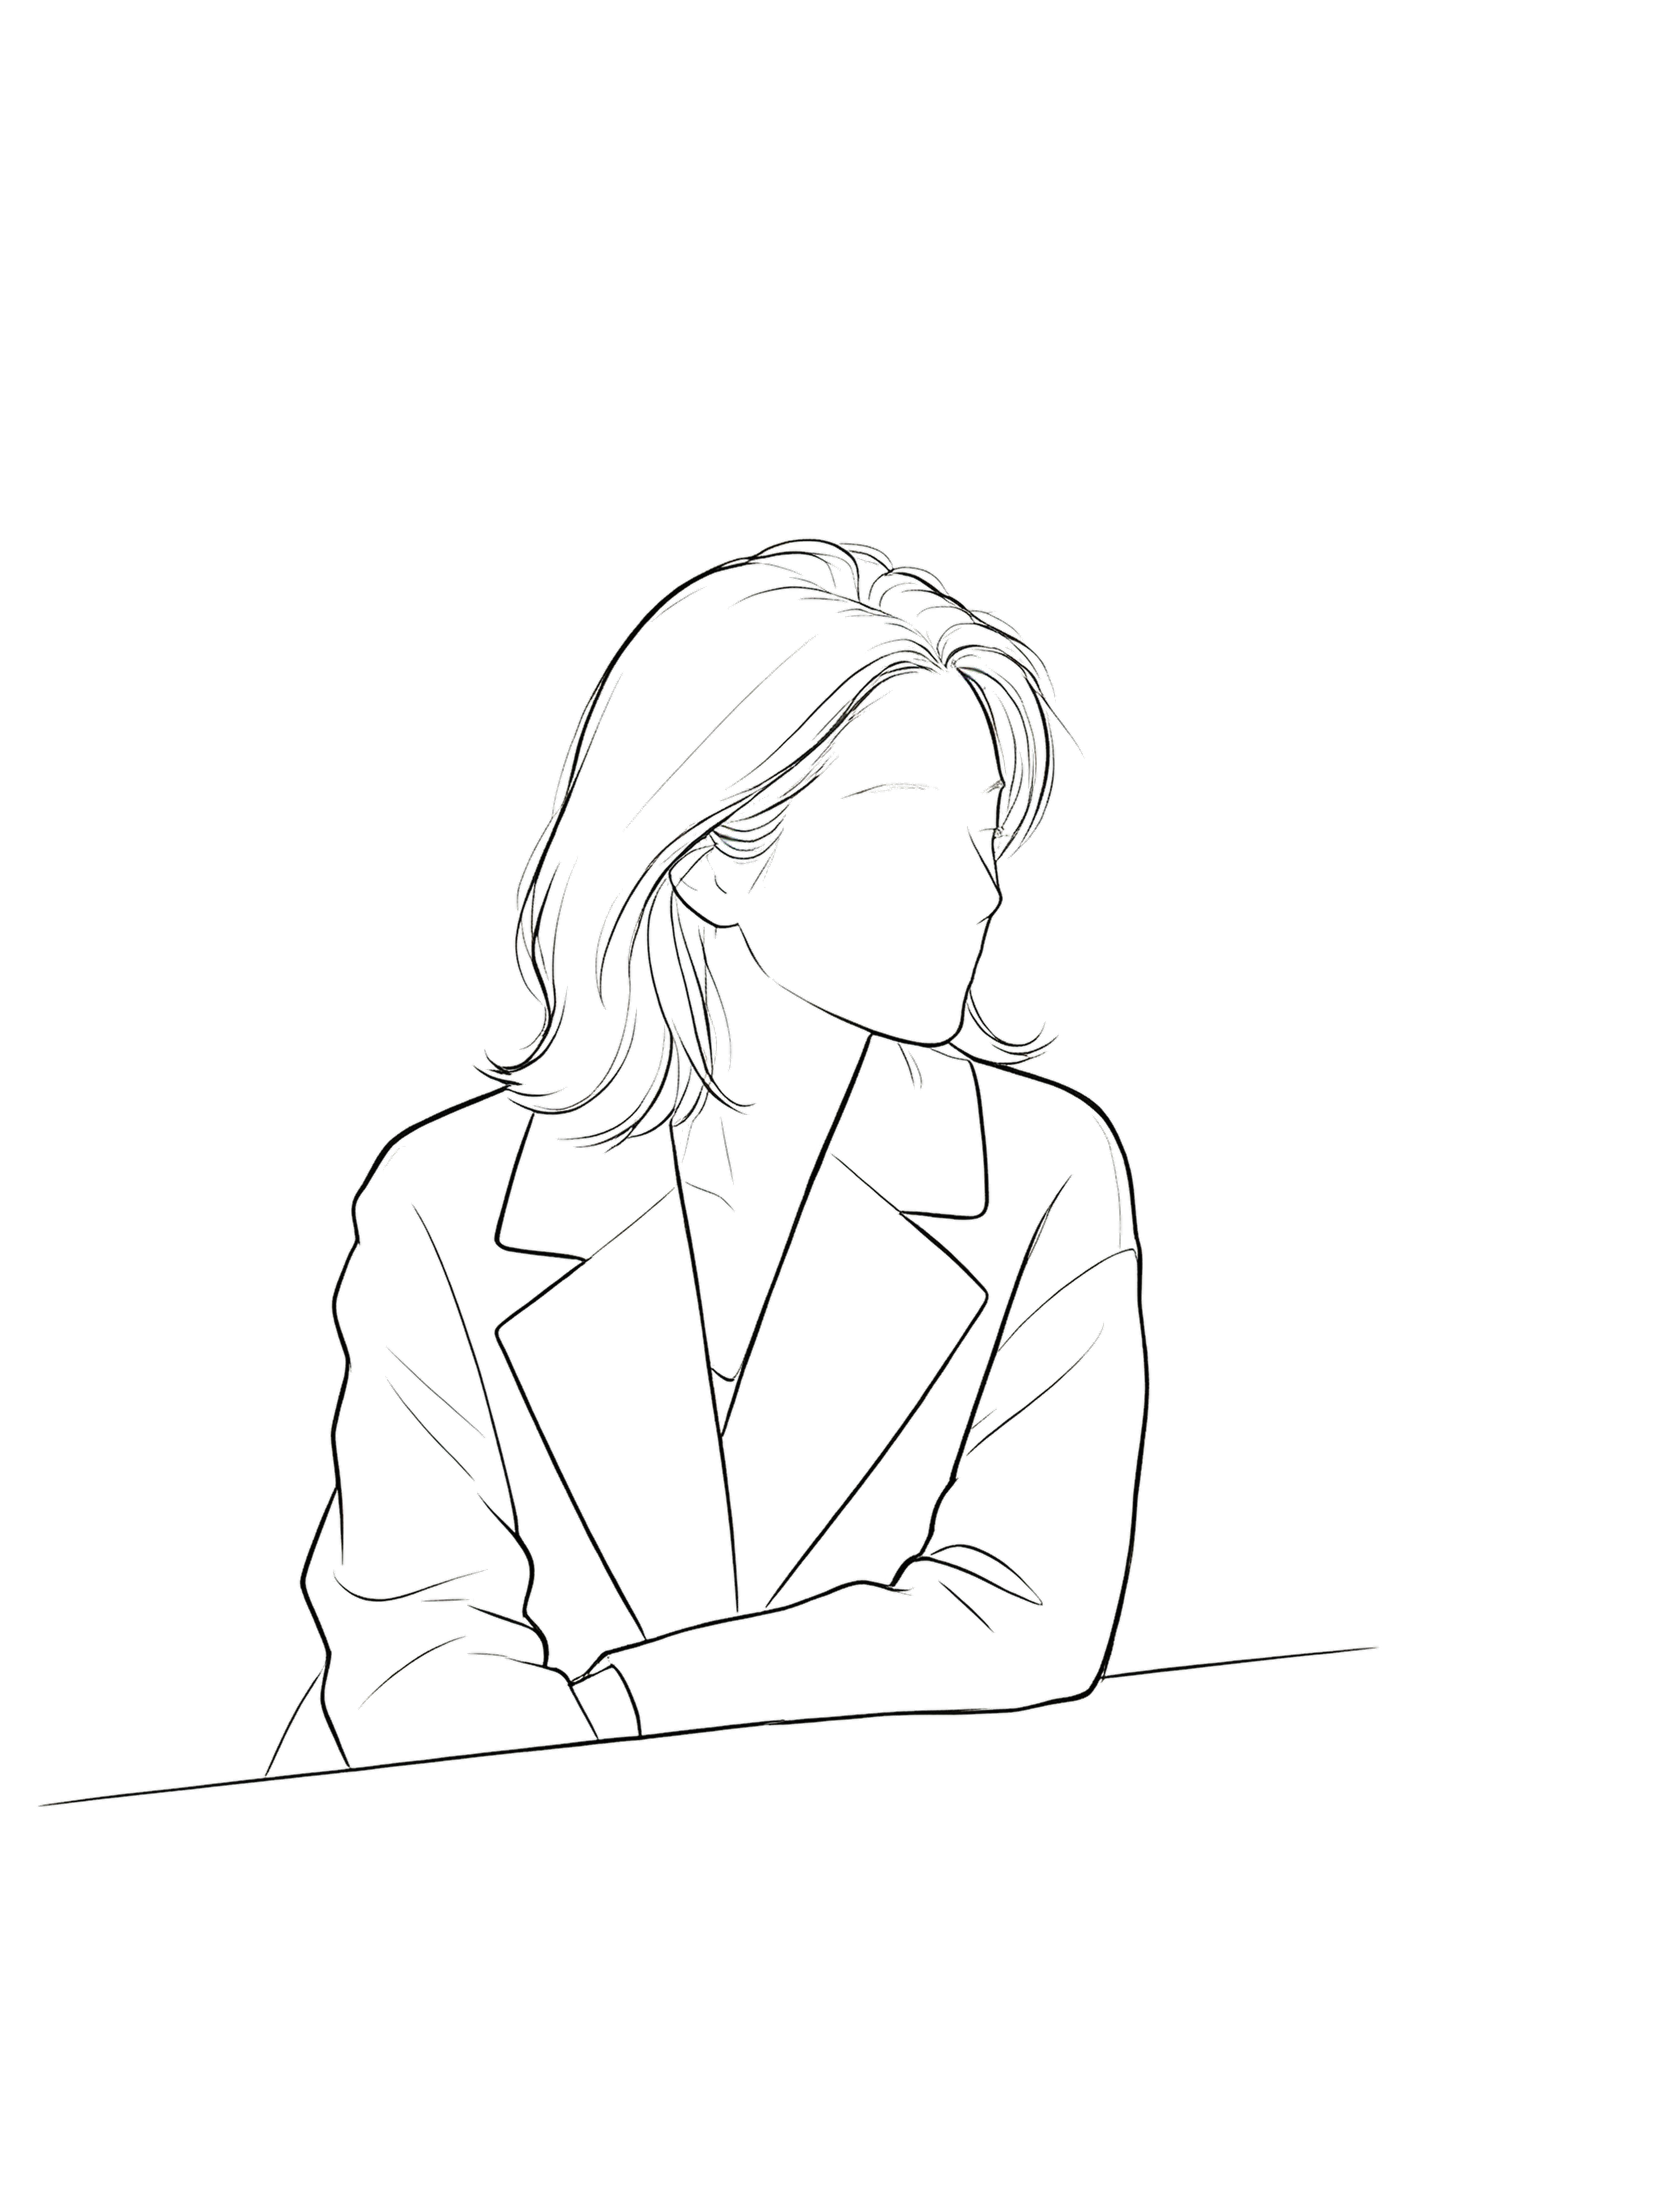
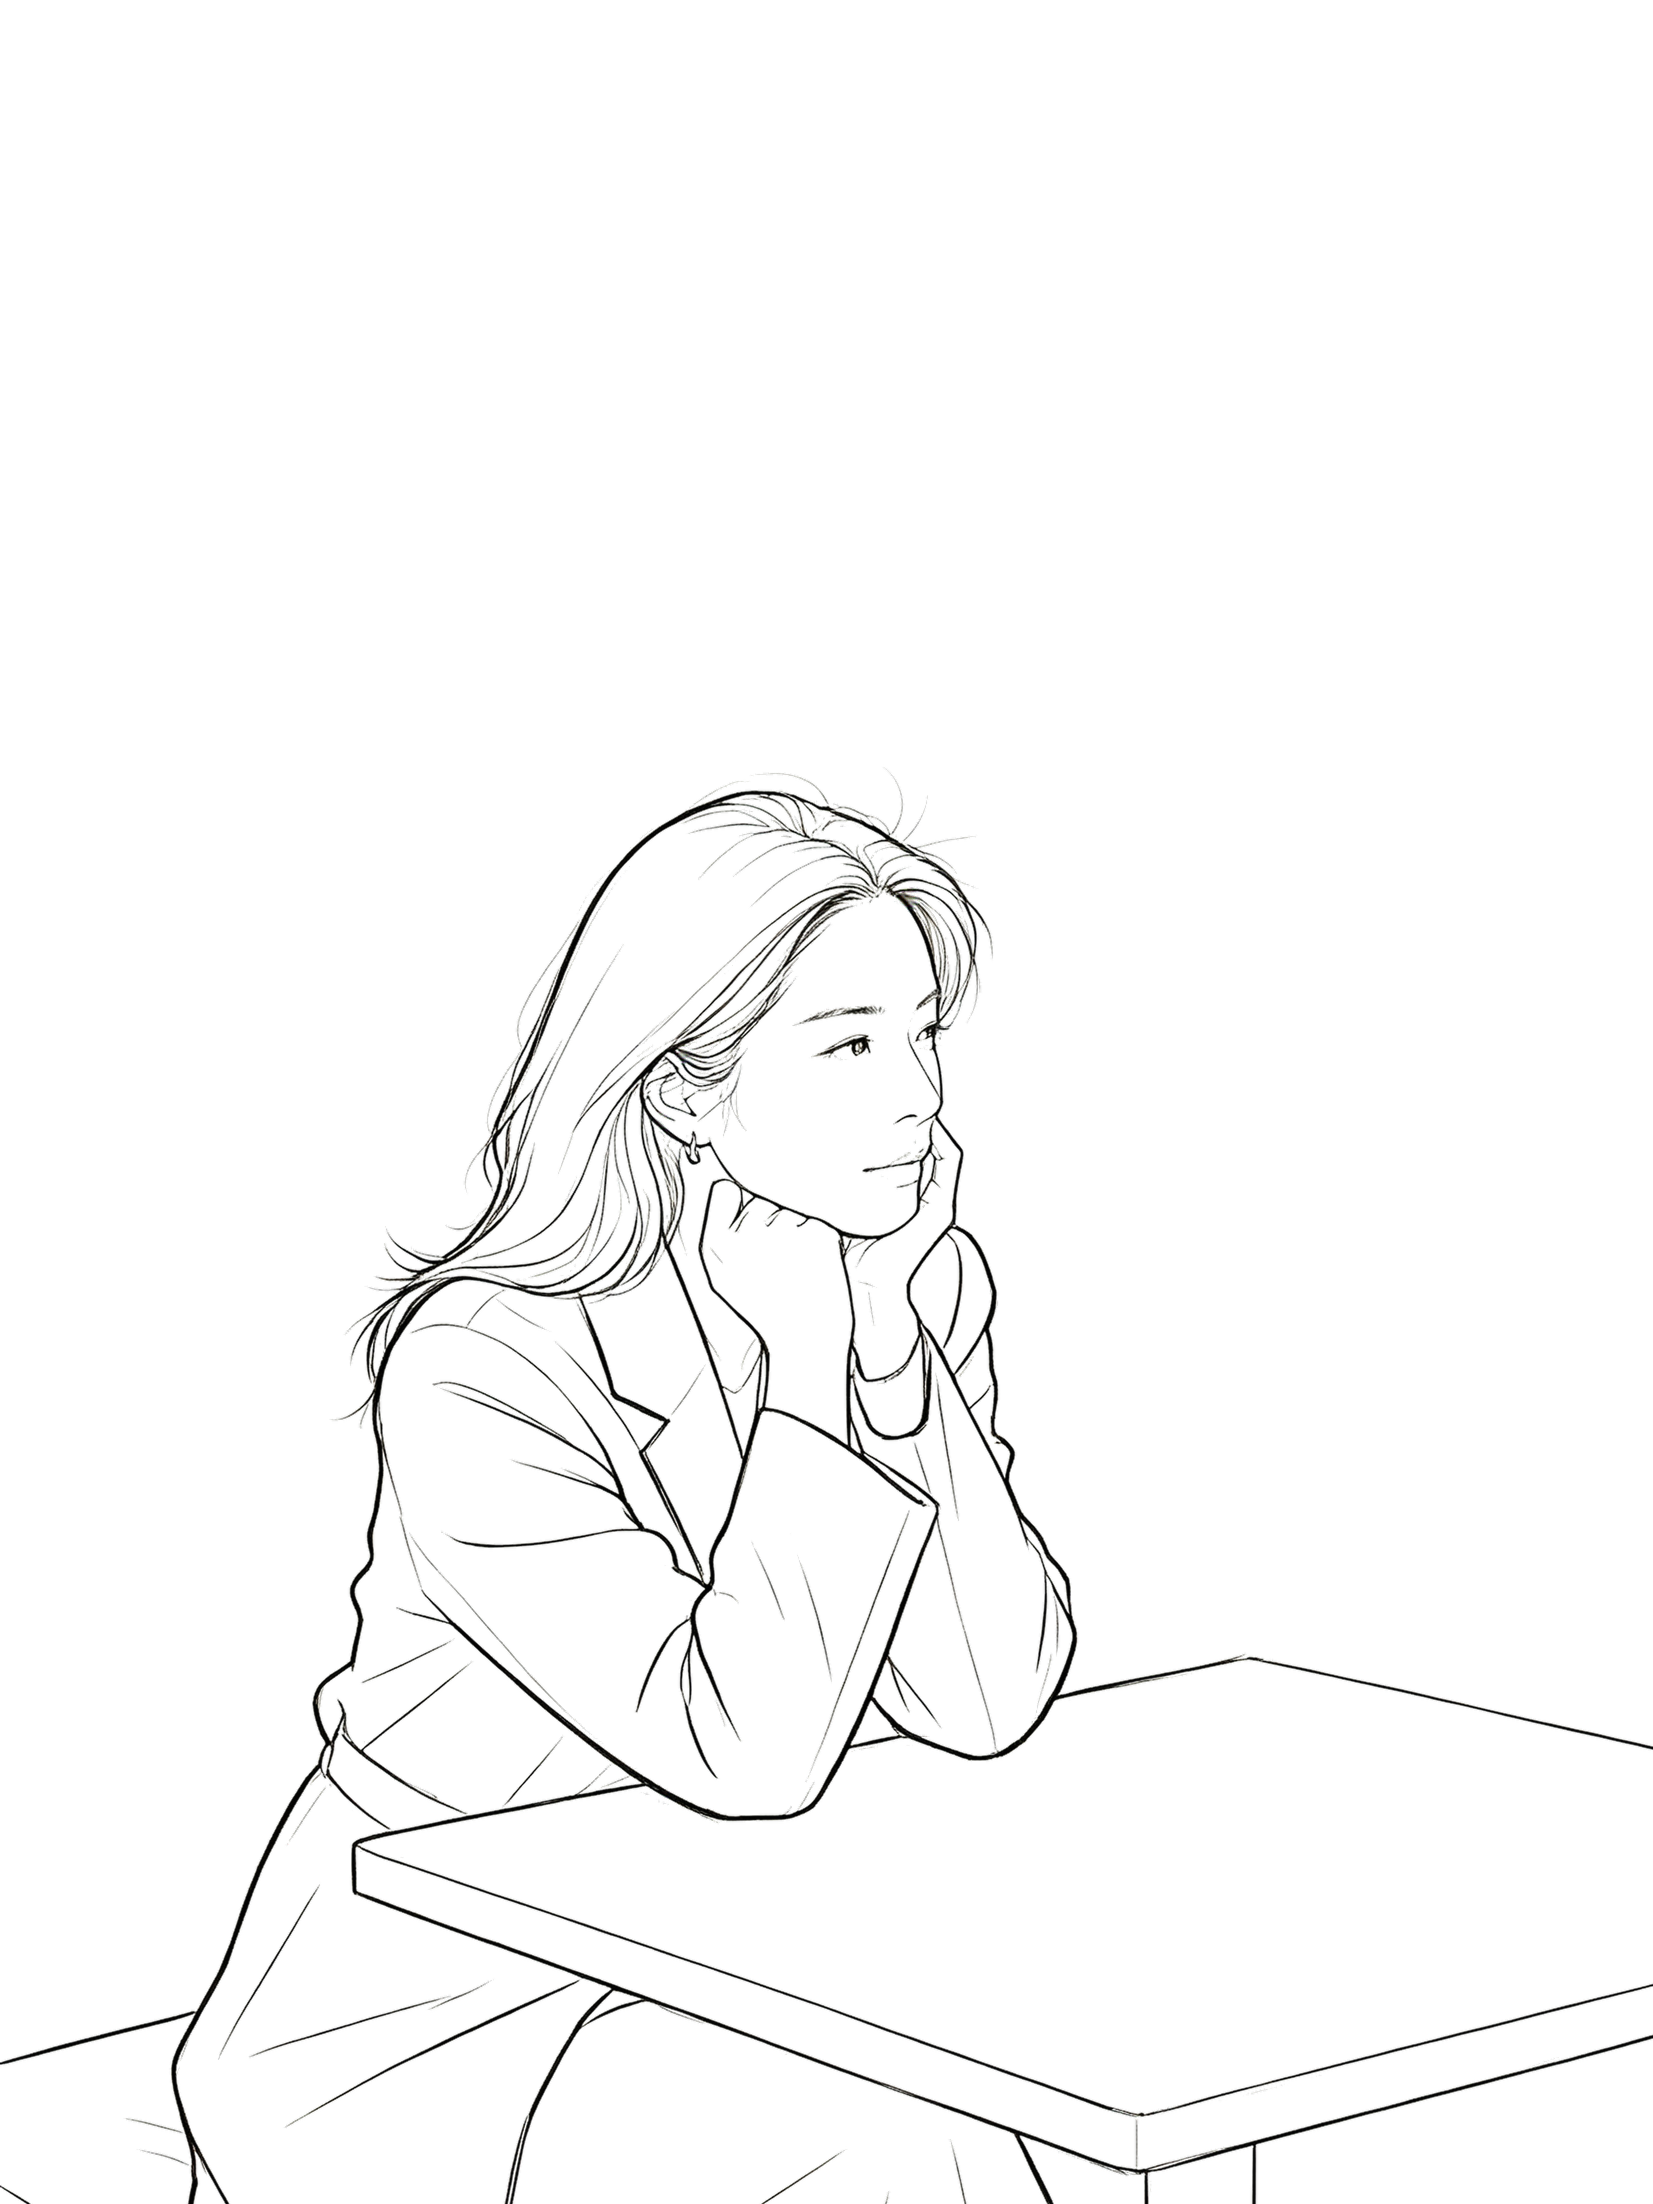
feat(admin): 后台模板表单图片剪影缩放上限由2.5加大到4.0

diff --git a/lumira-server/packages/admin/src/components/silhouette-preview.tsx b/lumira-server/packages/admin/src/components/silhouette-preview.tsx
@@ -1,0 +1,258 @@
+'use client';
+
+import * as React from 'react';
+import { MagnifyingGlassPlus } from '@phosphor-icons/react/dist/csr/MagnifyingGlassPlus';
+import { cn } from '@/lib/utils';
+import { Label } from '@/components/ui/label';
+import { Input } from '@/components/ui/input';
+import { Button } from '@/components/ui/button';
+import {
+  Dialog,
+  DialogContent,
+  DialogTitle,
+} from '@/components/ui/dialog';
+import IphoneFrame from '@/components/iphone-frame';
+
+/** 竖屏手机屏幕比例（19.5:9），与 IphoneFrame 一致，模拟真机全屏取景 */
+const PHONE_SCREEN_RATIO = 393 / 852;
+
+/**
+ * 解析比例字符串 → 宽高比。与 App 端 parseAspectRatio / computeTargetRatio 一致：
+ * - 'fullscreen' → 手机屏幕比例（App 全屏取景 = 设备屏幕比例）
+ * - '4:3' → 3/4（竖屏手机自适应，与 App computeTargetRatio 竖屏行为一致）
+ * - 其余 'W:H' 按字面解析（如 '3:4' → 0.75、'9:16' → 9/16）
+ * - 'free'/'none'/无法解析返回 null（调用方回退）
+ */
+function parseRatio(s: string): number | null {
+  if (!s) return null;
+  const v = s.trim().toLowerCase();
+  if (v === 'fullscreen') return PHONE_SCREEN_RATIO;
+  if (v === '4:3') return 3 / 4;
+  if (v === 'free' || v === 'none') return null;
+  const parts = v.split(':');
+  const w = parseFloat(parts[0]);
+  const h = parseFloat(parts[1]);
+  if (!w || !h) return null;
+  return w / h;
+}
+
+interface SilhouettePreviewProps {
+  silhouetteUrl: string | null;
+  positionX: number;
+  positionY: number;
+  scale: number;
+  rotation: number;
+  aspectRatio: string;
+  cropRatio?: string;
+  onPositionChange: (x: number, y: number) => void;
+  onScaleChange: (scale: number) => void;
+  onRotationChange: (rotation: number) => void;
+  className?: string;
+}
+
+export default function SilhouettePreview({
+  silhouetteUrl,
+  positionX,
+  positionY,
+  scale,
+  rotation,
+  aspectRatio,
+  cropRatio,
+  onPositionChange,
+  onScaleChange,
+  onRotationChange,
+  className,
+}: SilhouettePreviewProps) {
+  const areaRef = React.useRef<HTMLDivElement>(null);
+  const [isDragging, setIsDragging] = React.useState(false);
+  const [lightboxOpen, setLightboxOpen] = React.useState(false);
+  const dragStart = React.useRef({ x: 0, y: 0, posX: 0, posY: 0 });
+
+  // 与 App 拍摄页真机取景一致：取景比例 = 模板 postProcess.cropRatio
+  // （App capture_page 在模板切换时将 aspectRatioProvider 同步为 cropRatio），
+  // cropRatio 为空时回退 composition.aspectRatio。
+  // 剪影 position.x/y 相对该取景比例框定位（x:0,y:0 = 比例框左上角）。
+  const effectiveRatio = cropRatio || aspectRatio;
+  const ratio = React.useMemo(() => {
+    const r = parseRatio(effectiveRatio);
+    return r ?? 0.75;
+  }, [effectiveRatio]);
+
+  const handleMouseDown = (e: React.MouseEvent) => {
+    if (!silhouetteUrl) return;
+    e.preventDefault();
+    setIsDragging(true);
+    dragStart.current = {
+      x: e.clientX,
+      y: e.clientY,
+      posX: positionX,
+      posY: positionY,
+    };
+  };
+
+  const handleMouseMove = React.useCallback(
+    (e: MouseEvent) => {
+      if (!isDragging || !areaRef.current) return;
+      const rect = areaRef.current.getBoundingClientRect();
+      const dx = (e.clientX - dragStart.current.x) / rect.width;
+      const dy = (e.clientY - dragStart.current.y) / rect.height;
+      const newX = Math.max(0, Math.min(1, dragStart.current.posX + dx));
+      const newY = Math.max(0, Math.min(1, dragStart.current.posY + dy));
+      onPositionChange(newX, newY);
+    },
+    [isDragging, onPositionChange],
+  );
+
+  const handleMouseUp = React.useCallback(() => {
+    setIsDragging(false);
+  }, []);
+
+  React.useEffect(() => {
+    if (!isDragging) return;
+    window.addEventListener('mousemove', handleMouseMove);
+    window.addEventListener('mouseup', handleMouseUp);
+    return () => {
+      window.removeEventListener('mousemove', handleMouseMove);
+      window.removeEventListener('mouseup', handleMouseUp);
+    };
+  }, [isDragging, handleMouseMove, handleMouseUp]);
+
+  return (
+    <div className={cn('space-y-4', className)}>
+      <Label>剪影预览（可拖动调整位置）</Label>
+      <div className="flex justify-center">
+        <IphoneFrame width={240}>
+          <div className="absolute inset-0 flex items-center justify-center bg-black">
+            <div
+              ref={areaRef}
+              className="relative overflow-hidden bg-[#14151a]"
+              style={{ width: '100%', aspectRatio: String(ratio) }}
+            >
+              {/* 占位网格背景 */}
+              <div className="absolute inset-0 opacity-20">
+                <div className="absolute left-1/2 top-0 bottom-0 border-l border-white/30" />
+                <div className="absolute top-1/2 left-0 right-0 border-t border-white/30" />
+              </div>
+
+              <div className="absolute inset-0 flex items-center justify-center">
+                <div className="text-center text-muted-foreground/30 pointer-events-none">
+                  <p className="text-[10px]">取景区域 {effectiveRatio}</p>
+                </div>
+              </div>
+
+              {silhouetteUrl && (
+                <div
+                  className={cn(
+                    'absolute inset-0',
+                    isDragging ? 'cursor-grabbing' : 'cursor-grab',
+                  )}
+                  onMouseDown={handleMouseDown}
+                  style={{ touchAction: 'none' }}
+                >
+                  <div
+                    className="absolute"
+                    style={{
+                      left: `${positionX * 100}%`,
+                      top: `${positionY * 100}%`,
+                      width: '40%',
+                      aspectRatio: '1 / 1.6',
+                      transform: `translate(-50%, -50%) scale(${scale}) rotate(${rotation}deg)`,
+                      transition: isDragging ? 'none' : 'transform 0.15s ease-out',
+                    }}
+                  >
+                    <img
+                      src={silhouetteUrl}
+                      alt="剪影"
+                      className="w-full h-full object-contain pointer-events-none"
+                      draggable={false}
+                    />
+                  </div>
+                </div>
+              )}
+            </div>
+          </div>
+
+          {silhouetteUrl && (
+            <Button
+              type="button"
+              variant="secondary"
+              size="icon"
+              className="absolute top-8 right-2 h-7 w-7 opacity-70 hover:opacity-100 z-10"
+              onClick={(e) => {
+                e.stopPropagation();
+                setLightboxOpen(true);
+              }}
+            >
+              <MagnifyingGlassPlus size={14} />
+            </Button>
+          )}
+        </IphoneFrame>
+      </div>
+
+      <div className="grid grid-cols-3 gap-3">
+        <div className="space-y-1.5">
+          <Label className="text-xs text-muted-foreground">位置 X ({positionX.toFixed(2)})</Label>
+          <Input
+            type="range"
+            min={0}
+            max={1}
+            step={0.01}
+            value={positionX}
+            onChange={(e) => onPositionChange(Number(e.target.value), positionY)}
+            className="h-2"
+          />
+        </div>
+        <div className="space-y-1.5">
+          <Label className="text-xs text-muted-foreground">位置 Y ({positionY.toFixed(2)})</Label>
+          <Input
+            type="range"
+            min={0}
+            max={1}
+            step={0.01}
+            value={positionY}
+            onChange={(e) => onPositionChange(positionX, Number(e.target.value))}
+            className="h-2"
+          />
+        </div>
+        <div className="space-y-1.5">
+          <Label className="text-xs text-muted-foreground">缩放 ({scale.toFixed(2)})</Label>
+          <Input
+            type="range"
+            min={0.3}
+            max={4.0}
+            step={0.01}
+            value={scale}
+            onChange={(e) => onScaleChange(Number(e.target.value))}
+            className="h-2"
+          />
+        </div>
+      </div>
+
+      <div className="flex items-center gap-2">
+        <Label className="text-xs text-muted-foreground shrink-0">旋转 ({rotation}°)</Label>
+        <Input
+          type="range"
+          min={-45}
+          max={45}
+          step={1}
+          value={rotation}
+          onChange={(e) => onRotationChange(Number(e.target.value))}
+          className="h-2 flex-1"
+        />
+      </div>
+
+      <Dialog open={lightboxOpen} onOpenChange={setLightboxOpen}>
+        <DialogContent className="max-w-2xl p-2">
+          <DialogTitle className="sr-only">剪影预览</DialogTitle>
+          <div className="flex items-center justify-center max-h-[80vh] overflow-hidden">
+            <img
+              src={silhouetteUrl ?? ''}
+              alt="剪影"
+              className="max-h-[80vh] w-auto object-contain rounded-md"
+            />
+          </div>
+        </DialogContent>
+      </Dialog>
+    </div>
+  );
+}
